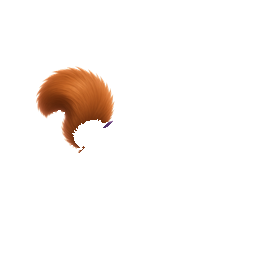
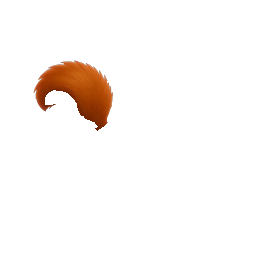
Big Booty and Robo re-renders: new hangar statics + 16-frame tap banks
Owner-supplied frame sets (25 and 36 frames). Shipped as:
- suits/bigbooty.png, suits/robo.png: frame 0 registered onto the OLD
  static's alpha footprint so the glide rig reference and hangar scale
  hold; old statics banked in art-src/suit-updates/.
- suits/{id}-tap-1..16.png: full-character tap banks, evenly sampled
  with one shared crop/scale per set. Big Booty skips frames 4-6 (the
  fake-helmet gag, excluded by the owner).
- Rig re-cut for both via transfer + neck-cut (tail/body layers now
  reassemble the new statics; hinges re-read: bigbooty [92,129], robo
  [101,140]); dome fits re-seated on the new heads ([182,102,45] /
  [193,92,45]).
- art.ts loads the two new tap banks beside eclipse.

Verified in-game: both suits load 16 frames, the burst draws the new
art with the dome seated, zero page errors; verify-art passes 8/8.

Claude-Session: https://claude.ai/code/session_01AxarYXSPHDGFV5QY8gYCSr

Changed region(s): [[0.125, 0.2188, 0.4688, 0.5938]]

diff --git a/illustrated-src/game/draw.ts b/illustrated-src/game/draw.ts
@@ -1463,13 +1463,13 @@ const DOME: Record<string, [number, number, number]> = {
   "suit:aurorasuit": [181, 101, 44],
   "suit:ember": [182, 100, 44],
   "suit:stardust": [179, 95, 44],
-  "suit:robo": [180, 99, 44],
+  "suit:robo": [193, 92, 45],
   "suit:alien": [188, 102, 43],
   // re-rendered bare-headed on a black plate (the pale-on-cream key was
   // unrecoverable); measured against the new art, and near-identical to
   // flight, which is the same pose in the same framing
   "suit:ghost": [182, 93, 44],
-  "suit:bigbooty": [175, 107, 44],
+  "suit:bigbooty": [182, 102, 45],
   "suit:catsuit": [212, 86, 50],
   "suit:gemmie": [204, 92, 58],
   "suit:phoenix": [207, 92, 41],
@@ -1578,7 +1578,7 @@ const TAIL_PIVOT: Record<string, [number, number]> = {
   // it. Re-cut the art and these must be re-read from the same run.
   alien: [106, 145],
   aurorasuit: [99, 139],
-  bigbooty: [94, 136],
+  bigbooty: [92, 129],
   catsuit: [90, 146],
   copper: [99, 131],
   ember: [107, 136],
@@ -1588,7 +1588,7 @@ const TAIL_PIVOT: Record<string, [number, number]> = {
   ghost: [103, 128],
   iontrim: [100, 130],
   leviathan: [101, 131],
-  robo: [99, 138],
+  robo: [101, 140],
   sammie: [99, 148],
   seraph: [105, 138],
   stardust: [104, 140],

diff --git a/docs/js/draw.js b/docs/js/draw.js
@@ -1404,13 +1404,13 @@ const DOME = {
     "suit:aurorasuit": [181, 101, 44],
     "suit:ember": [182, 100, 44],
     "suit:stardust": [179, 95, 44],
-    "suit:robo": [180, 99, 44],
+    "suit:robo": [193, 92, 45],
     "suit:alien": [188, 102, 43],
     // re-rendered bare-headed on a black plate (the pale-on-cream key was
     // unrecoverable); measured against the new art, and near-identical to
     // flight, which is the same pose in the same framing
     "suit:ghost": [182, 93, 44],
-    "suit:bigbooty": [175, 107, 44],
+    "suit:bigbooty": [182, 102, 45],
     "suit:catsuit": [212, 86, 50],
     "suit:gemmie": [204, 92, 58],
     "suit:phoenix": [207, 92, 41],
@@ -1515,7 +1515,7 @@ const TAIL_PIVOT = {
     // it. Re-cut the art and these must be re-read from the same run.
     alien: [106, 145],
     aurorasuit: [99, 139],
-    bigbooty: [94, 136],
+    bigbooty: [92, 129],
     catsuit: [90, 146],
     copper: [99, 131],
     ember: [107, 136],
@@ -1525,7 +1525,7 @@ const TAIL_PIVOT = {
     ghost: [103, 128],
     iontrim: [100, 130],
     leviathan: [101, 131],
-    robo: [99, 138],
+    robo: [101, 140],
     sammie: [99, 148],
     seraph: [105, 138],
     stardust: [104, 140],

diff --git a/docs/js79/draw.js b/docs/js79/draw.js
@@ -1404,13 +1404,13 @@ const DOME = {
     "suit:aurorasuit": [181, 101, 44],
     "suit:ember": [182, 100, 44],
     "suit:stardust": [179, 95, 44],
-    "suit:robo": [180, 99, 44],
+    "suit:robo": [193, 92, 45],
     "suit:alien": [188, 102, 43],
     // re-rendered bare-headed on a black plate (the pale-on-cream key was
     // unrecoverable); measured against the new art, and near-identical to
     // flight, which is the same pose in the same framing
     "suit:ghost": [182, 93, 44],
-    "suit:bigbooty": [175, 107, 44],
+    "suit:bigbooty": [182, 102, 45],
     "suit:catsuit": [212, 86, 50],
     "suit:gemmie": [204, 92, 58],
     "suit:phoenix": [207, 92, 41],
@@ -1515,7 +1515,7 @@ const TAIL_PIVOT = {
     // it. Re-cut the art and these must be re-read from the same run.
     alien: [106, 145],
     aurorasuit: [99, 139],
-    bigbooty: [94, 136],
+    bigbooty: [92, 129],
     catsuit: [90, 146],
     copper: [99, 131],
     ember: [107, 136],
@@ -1525,7 +1525,7 @@ const TAIL_PIVOT = {
     ghost: [103, 128],
     iontrim: [100, 130],
     leviathan: [101, 131],
-    robo: [99, 138],
+    robo: [101, 140],
     sammie: [99, 148],
     seraph: [105, 138],
     stardust: [104, 140],

diff --git a/sandbox_assets/js/draw.js b/sandbox_assets/js/draw.js
@@ -1404,13 +1404,13 @@ const DOME = {
     "suit:aurorasuit": [181, 101, 44],
     "suit:ember": [182, 100, 44],
     "suit:stardust": [179, 95, 44],
-    "suit:robo": [180, 99, 44],
+    "suit:robo": [193, 92, 45],
     "suit:alien": [188, 102, 43],
     // re-rendered bare-headed on a black plate (the pale-on-cream key was
     // unrecoverable); measured against the new art, and near-identical to
     // flight, which is the same pose in the same framing
     "suit:ghost": [182, 93, 44],
-    "suit:bigbooty": [175, 107, 44],
+    "suit:bigbooty": [182, 102, 45],
     "suit:catsuit": [212, 86, 50],
     "suit:gemmie": [204, 92, 58],
     "suit:phoenix": [207, 92, 41],
@@ -1515,7 +1515,7 @@ const TAIL_PIVOT = {
     // it. Re-cut the art and these must be re-read from the same run.
     alien: [106, 145],
     aurorasuit: [99, 139],
-    bigbooty: [94, 136],
+    bigbooty: [92, 129],
     catsuit: [90, 146],
     copper: [99, 131],
     ember: [107, 136],
@@ -1525,7 +1525,7 @@ const TAIL_PIVOT = {
     ghost: [103, 128],
     iontrim: [100, 130],
     leviathan: [101, 131],
-    robo: [99, 138],
+    robo: [101, 140],
     sammie: [99, 148],
     seraph: [105, 138],
     stardust: [104, 140],

diff --git a/sandbox_assets/js79/draw.js b/sandbox_assets/js79/draw.js
@@ -1404,13 +1404,13 @@ const DOME = {
     "suit:aurorasuit": [181, 101, 44],
     "suit:ember": [182, 100, 44],
     "suit:stardust": [179, 95, 44],
-    "suit:robo": [180, 99, 44],
+    "suit:robo": [193, 92, 45],
     "suit:alien": [188, 102, 43],
     // re-rendered bare-headed on a black plate (the pale-on-cream key was
     // unrecoverable); measured against the new art, and near-identical to
     // flight, which is the same pose in the same framing
     "suit:ghost": [182, 93, 44],
-    "suit:bigbooty": [175, 107, 44],
+    "suit:bigbooty": [182, 102, 45],
     "suit:catsuit": [212, 86, 50],
     "suit:gemmie": [204, 92, 58],
     "suit:phoenix": [207, 92, 41],
@@ -1515,7 +1515,7 @@ const TAIL_PIVOT = {
     // it. Re-cut the art and these must be re-read from the same run.
     alien: [106, 145],
     aurorasuit: [99, 139],
-    bigbooty: [94, 136],
+    bigbooty: [92, 129],
     catsuit: [90, 146],
     copper: [99, 131],
     ember: [107, 136],
@@ -1525,7 +1525,7 @@ const TAIL_PIVOT = {
     ghost: [103, 128],
     iontrim: [100, 130],
     leviathan: [101, 131],
-    robo: [99, 138],
+    robo: [101, 140],
     sammie: [99, 148],
     seraph: [105, 138],
     stardust: [104, 140],

diff --git a/illustrated-src/game/art.ts b/illustrated-src/game/art.ts
@@ -386,7 +386,7 @@ export async function loadArt(): Promise<ArtBank> {
       many(`${base}/vortex/hole-`, 16),
       named(RIGGED_SUITS, "suits", "-tail"),
       named(RIGGED_SUITS, "suits", "-body"),
-      namedSeries(TAP_ANIM_ENABLED ? { eclipse: 16 } : {}, "suits", "-tap-"),
+      namedSeries(TAP_ANIM_ENABLED ? { eclipse: 16, bigbooty: 16, robo: 16 } : {}, "suits", "-tap-"),
       namedSeries(TAP_ANIM_ENABLED ? { eclipse: 12 } : {}, "suits", "-tail-tap-"),
       // Beta-only, like the tap banks: production can never fly the race,
       // so it never spends a byte downloading the portal set.

diff --git a/docs/js/art.js b/docs/js/art.js
@@ -311,7 +311,7 @@ export async function loadArt() {
         many(`${base}/vortex/hole-`, 16),
         named(RIGGED_SUITS, "suits", "-tail"),
         named(RIGGED_SUITS, "suits", "-body"),
-        namedSeries(TAP_ANIM_ENABLED ? { eclipse: 16 } : {}, "suits", "-tap-"),
+        namedSeries(TAP_ANIM_ENABLED ? { eclipse: 16, bigbooty: 16, robo: 16 } : {}, "suits", "-tap-"),
         namedSeries(TAP_ANIM_ENABLED ? { eclipse: 12 } : {}, "suits", "-tail-tap-"),
         // Beta-only, like the tap banks: production can never fly the race,
         // so it never spends a byte downloading the portal set.

diff --git a/docs/js79/art.js b/docs/js79/art.js
@@ -311,7 +311,7 @@ export async function loadArt() {
         many(`${base}/vortex/hole-`, 16),
         named(RIGGED_SUITS, "suits", "-tail"),
         named(RIGGED_SUITS, "suits", "-body"),
-        namedSeries(TAP_ANIM_ENABLED ? { eclipse: 16 } : {}, "suits", "-tap-"),
+        namedSeries(TAP_ANIM_ENABLED ? { eclipse: 16, bigbooty: 16, robo: 16 } : {}, "suits", "-tap-"),
         namedSeries(TAP_ANIM_ENABLED ? { eclipse: 12 } : {}, "suits", "-tail-tap-"),
         // Beta-only, like the tap banks: production can never fly the race,
         // so it never spends a byte downloading the portal set.

diff --git a/sandbox_assets/js/art.js b/sandbox_assets/js/art.js
@@ -311,7 +311,7 @@ export async function loadArt() {
         many(`${base}/vortex/hole-`, 16),
         named(RIGGED_SUITS, "suits", "-tail"),
         named(RIGGED_SUITS, "suits", "-body"),
-        namedSeries(TAP_ANIM_ENABLED ? { eclipse: 16 } : {}, "suits", "-tap-"),
+        namedSeries(TAP_ANIM_ENABLED ? { eclipse: 16, bigbooty: 16, robo: 16 } : {}, "suits", "-tap-"),
         namedSeries(TAP_ANIM_ENABLED ? { eclipse: 12 } : {}, "suits", "-tail-tap-"),
         // Beta-only, like the tap banks: production can never fly the race,
         // so it never spends a byte downloading the portal set.

diff --git a/sandbox_assets/js79/art.js b/sandbox_assets/js79/art.js
@@ -311,7 +311,7 @@ export async function loadArt() {
         many(`${base}/vortex/hole-`, 16),
         named(RIGGED_SUITS, "suits", "-tail"),
         named(RIGGED_SUITS, "suits", "-body"),
-        namedSeries(TAP_ANIM_ENABLED ? { eclipse: 16 } : {}, "suits", "-tap-"),
+        namedSeries(TAP_ANIM_ENABLED ? { eclipse: 16, bigbooty: 16, robo: 16 } : {}, "suits", "-tap-"),
         namedSeries(TAP_ANIM_ENABLED ? { eclipse: 12 } : {}, "suits", "-tail-tap-"),
         // Beta-only, like the tap banks: production can never fly the race,
         // so it never spends a byte downloading the portal set.

diff --git a/art-src/suit-updates/README.md b/art-src/suit-updates/README.md
@@ -1,0 +1,16 @@
+# Owner-supplied suit re-renders (2026-08-22)
+
+`big_oo/` and `robot/` are the owner's uploaded frame sets for the Big
+Booty and Robo suits (25 and 36 frames, sliced sheets). Shipped as:
+
+- `suits/bigbooty.png`, `suits/robo.png`: frame 0 registered onto the
+  OLD static's alpha footprint, so the glide rig reference box and the
+  hangar scale are unchanged. The retired statics are kept here as
+  `*-old.png`.
+- `suits/{id}-tap-1..16.png`: 16-frame full-character tap banks, evenly
+  sampled (Big Booty skips frames 4-6 — the fake-helmet gag the owner
+  excluded), one shared crop/scale per set so the frames stay mutually
+  registered.
+
+The old `-tail`/`-body` rig cuts still paint the glide pose; re-cutting
+them from the new renders is a follow-up if the mixed identity shows.
